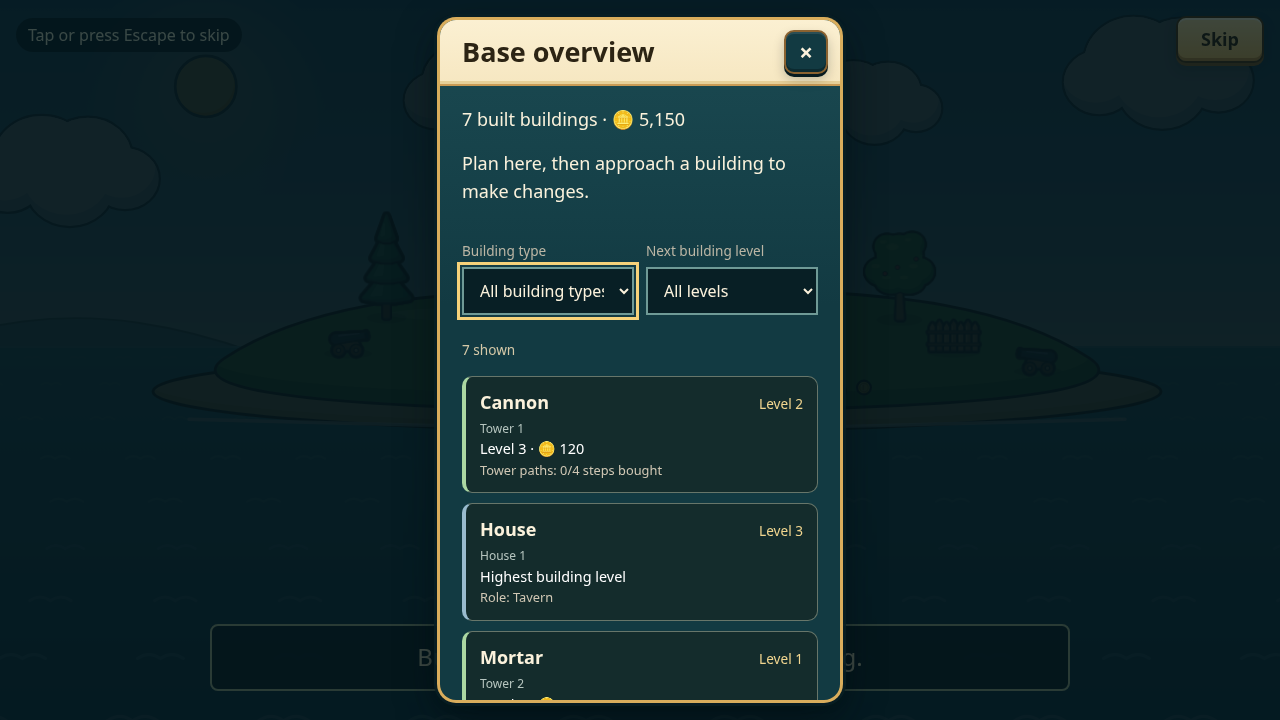
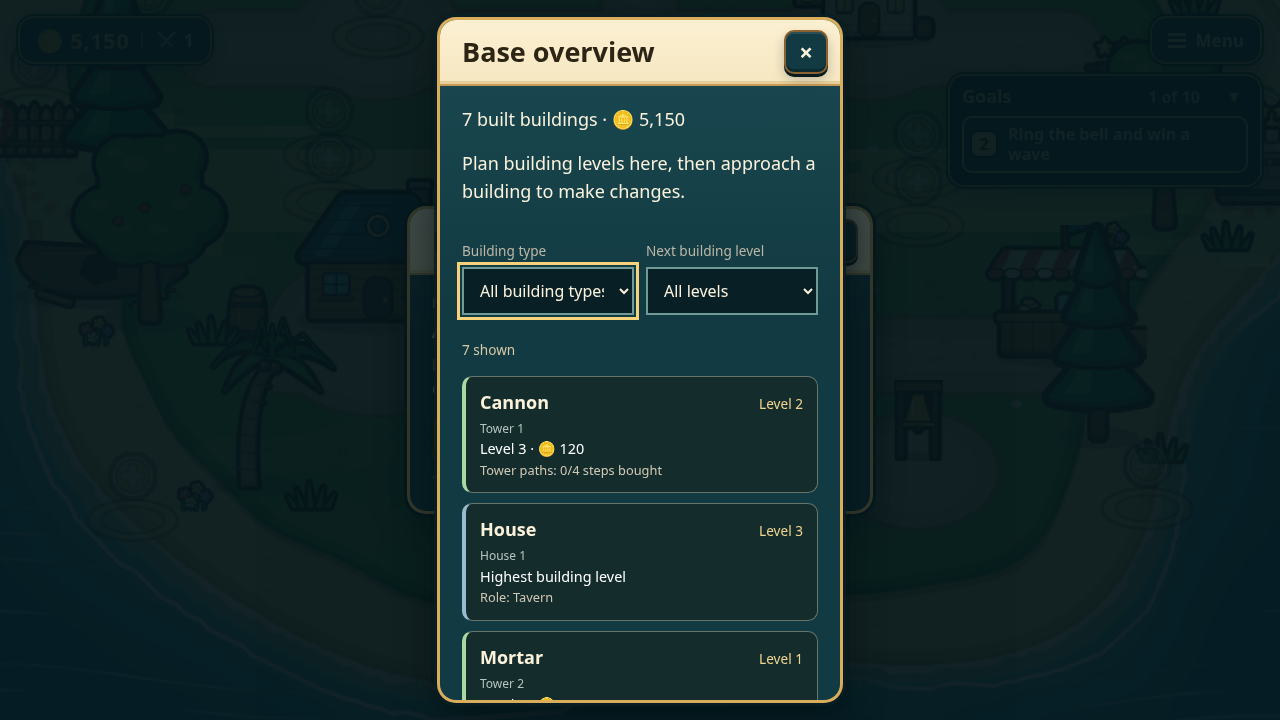
test: finish base overview visual and data checks

diff --git a/frontend/tests/island/upgrade-overview.test.js b/frontend/tests/island/upgrade-overview.test.js
@@ -8,7 +8,8 @@ describe('base overview planning model', () => {
   it('includes offered extra spots exactly once and does not invent empty or unknown buildings', () => {
     const model = upgradeOverviewModel({island: island([
       building('cannon_8', 'mortar', 2), building('wall_2', 'wall'), building('cannon_8', 'mortar', 2),
-      {id: 'house_1', kind: 'house', built: false}, building('invalid', 'unknown'), building('wall_1', 'wall')])});
+      {id: 'house_1', kind: 'house', built: false}, {id: 'not-built', kind: 'wall', built: 'yes'},
+      building('invalid', 'unknown'), building('wall_1', 'wall')])});
     expect(model.rows.map(row => row.id)).toEqual(['cannon_8', 'wall_1', 'wall_2']);
     expect(model.lead).toBe('3 built buildings · 🪙 500');
     expect(overviewRows(model, 'wall').map(row => row.id)).toEqual(['wall_1', 'wall_2']);

diff --git a/frontend/src/island/upgrade-overview.js b/frontend/src/island/upgrade-overview.js
@@ -8,7 +8,7 @@ export function upgradeOverviewModel({island = null, battle = false, message = '
   const coins = Number.isSafeInteger(island?.coins) ? island.coins : null;
   const seen = new Set(), rows = [], campaign = campaignOf(island);
   for (const spot of island?.spots ?? []) {
-    if (!spot?.built || typeof spot.id !== 'string' || seen.has(spot.id) || !BUILDINGS[spot.kind]) continue;
+    if (spot?.built !== true || typeof spot.id !== 'string' || seen.has(spot.id) || !BUILDINGS[spot.kind]) continue;
     seen.add(spot.id);
     const card = buildCardModel({spotId: spot.id, kind: spot.kind, spot, coins,
       unlocks: readUnlocks(island), prices: island.prices, campaign, battle});

diff --git a/specs/COC-31-base-overview.md b/specs/COC-31-base-overview.md
@@ -42,11 +42,11 @@ Focused command from `frontend/`:
 npm test -- --maxWorkers=1 tests/island/upgrade-overview.test.js tests/island/upgrade-overview-dom.test.js tests/island/card-model.test.js tests/island/tower-tree.test.js
 ```
 
-Initial focused result: **4 passed files; 40 passed tests**, 6.43 seconds. After the building-level wording refinement, the non-browser model/card/tree run passed **3 files; 38 tests**, 1.39 seconds. A final DOM/capture rerun is coordinated with the parent agent's exclusive browser slot. Model cases cover extra plots, duplicate IDs, unbuilt/unknown entries, server prices, exact affordability boundary, unknown coins, wave locks, top levels, roles/paths and source immutability. Real Chromium DOM cases use the actual menu provider, confirm zero POST writes during overview use, retain filters/focus across accepted updates and wave state, and check 375-pixel overflow plus an empty filter result.
+Final focused result: **4 passed files; 40 passed tests**, 3.64 seconds. Model cases cover extra plots, duplicate IDs, unbuilt/unknown entries, server prices, exact affordability boundary, unknown coins, wave locks, top levels, roles/paths and source immutability. Real Chromium DOM cases use the actual menu provider, confirm zero POST writes during overview use, retain filters/focus across accepted updates and wave state, and check 375-pixel overflow plus an empty filter result.
 
 Text lint: **4322 candidate strings in 472 source files; 0 errors, 8 report-only findings**. The four added ordinary words (`approach`, `base`, `filters`, `plan`) were manually checked for spelling. Existing report-only findings are unrelated.
 
-`node scripts/capture-base-overview.js ../docs/evidence/COC-31-base-overview` captures the real integrated game with local fake island data. The old single-building detail card is the before comparison; the new read-only aggregate is the after comparison. Seven buildings at the same fixture state are used at 1280 × 720 and 375 × 812. Preliminary captures exist, but show an unrelated arrival-cutscene backdrop. The stricter clean-capture assertion exposed that condition; the returning-player fixture now seeds the existing arrival-seen key, and its final rerun is pending. See the [evidence report](../docs/evidence/COC-31-base-overview/README.md).
+`node scripts/capture-base-overview.js ../docs/evidence/COC-31-base-overview` captures the real integrated game with local fake island data. The old single-building detail card is the before comparison; the new read-only aggregate is the after comparison. Seven buildings at the same fixture state are used at 1280 × 720 and 375 × 812. Final result: **4 screenshots passed; overview rows: 7; browser errors: 0; horizontal overflow: 0**. The returning-player fixture sets the existing arrival-seen key, and asserts there is no open arrival cutscene before capturing. The earlier cutscene-backdrop assertion failure was fixed in the fixture; it was not removed. See the [evidence report](../docs/evidence/COC-31-base-overview/README.md).
 
 Full frontend suite, production build/budget and broad accessibility/demo journeys are coordinated by the parent integration agent and are not claimed here. Live authentication, a production database, Safari and physical phones were not checked. The fake transport proves the component workflow and absence of overview writes, not production service availability.
 

diff --git a/docs/evidence/COC-31-base-overview/README.md b/docs/evidence/COC-31-base-overview/README.md
@@ -1,6 +1,6 @@
-# COC-31 preliminary visual evidence
+# COC-31 visual evidence
 
-These are real Chromium screenshots of the integrated game using its local fake island transport. They are not generated concepts and do not show production data. The before comparison is the unchanged single-building detail card; the after comparison is the new overview at the same prepared island state. **The first captures still have an unrelated arrival-cutscene backdrop. Clean regeneration is pending the coordinated browser slot; these images are preliminary, not final visual acceptance.**
+These are real Chromium screenshots of the integrated game using its local fake island transport. They are not generated concepts and do not show production data. The before comparison is the unchanged single-building detail card; the after comparison is the new overview at the same prepared island state. Both final viewports were inspected visually.
 
 | Viewport | Before | After |
 |---|---|---|
@@ -13,7 +13,7 @@ Reproduce from `frontend/`:
 node scripts/capture-base-overview.js ../docs/evidence/COC-31-base-overview
 ```
 
-The capture uses real game/card rendering, existing fake build/upgrade commands, the existing arrival-seen key for a returning-player fixture, normal Skip controls for optional queued narration, and the new public overview opener used by its menu entry. It asserts no open arrival cutscene, seven rendered building rows, no horizontal document overflow and zero page exceptions. The [report.json](report.json) currently records the first, less strict run; it does not prove that the added clean-backdrop assertion passed.
+The capture uses real game/card rendering, existing fake build/upgrade commands, the existing arrival-seen key for a returning-player fixture, normal Skip controls for optional queued narration, and the new public overview opener used by its menu entry. It asserts no open arrival cutscene, seven rendered building rows, no horizontal document overflow and zero page exceptions. The final [report.json](report.json) and command result record **4 screenshots passed; overview rows: 7; browser errors: 0; horizontal overflow: 0**. An earlier attempt exposed the unwanted intro backdrop and failed the stricter assertion; the fixture was corrected without removing that assertion.
 
 The overview is scrollable when seven rows cannot fit on a phone. The screenshot is the first visible part of that scrollable card. Tests separately verify both filters, no-match feedback, focus retention, zero overview POST writes and accepted data refreshes.
 

diff --git a/docs/FINAL-ROADMAP.md b/docs/FINAL-ROADMAP.md
@@ -148,4 +148,4 @@ Planning handover (14 Nov): roadmap/task expansion drafted by Ianno Hollensteine
 - [x] **B3 current-v3 feedback pass:** implemented by Johannes in drafts [#31](https://github.com/Nilsnova/The-Great-Plot-Twist/pull/31) and [#32](https://github.com/Nilsnova/The-Great-Plot-Twist/pull/32). [Audit, screenshots and limits](B3-FEEDBACK-AUDIT.md). This scoped pass does not claim the historical mystery/email workflows or live provider/multiplayer proof. Human review remains.
 
 
-COC-31 / Johannes: a first read-only base overview slice is implemented on `feat/coc-31-base-overview` for [issue #172](https://github.com/Nilsnova/The-Great-Plot-Twist/issues/172). [Scope and limits](../specs/COC-31-base-overview.md); [screenshots](evidence/COC-31-base-overview/README.md). The broad task stays open: village-mode selection handoff, author explain-back and human review remain.
+COC-31 / Johannes: a first read-only base overview slice is implemented in [draft PR #196](https://github.com/Nilsnova/The-Great-Plot-Twist/pull/196) on `feat/coc-31-base-overview` for [issue #172](https://github.com/Nilsnova/The-Great-Plot-Twist/issues/172). [Scope and limits](../specs/COC-31-base-overview.md); [screenshots](evidence/COC-31-base-overview/README.md). The broad task stays open: village-mode selection handoff, author explain-back and human review remain.

diff --git a/docs/OPEN-TODOS.md b/docs/OPEN-TODOS.md
@@ -232,4 +232,4 @@ T55–T60 remain reserved and dependency-blocked pending explicit T54 technical-
 
 ## COC-31 — base overview first slice (17 Nov, Johannes)
 
-[Issue #172](https://github.com/Nilsnova/The-Great-Plot-Twist/issues/172), branch `feat/coc-31-base-overview`: read-only built-building overview with existing prices/locks and local filters. [Scope/evidence](../specs/COC-31-base-overview.md). No purchase endpoint or remote building selection; the larger COC-31 task is not done. Draft PR, explain-back and independent review remain.
+[Issue #172](https://github.com/Nilsnova/The-Great-Plot-Twist/issues/172), [draft PR #196](https://github.com/Nilsnova/The-Great-Plot-Twist/pull/196), branch `feat/coc-31-base-overview`: read-only built-building overview with existing prices/locks and local filters. [Scope/evidence](../specs/COC-31-base-overview.md). No purchase endpoint or remote building selection; the larger COC-31 task is not done. Draft PR, explain-back and independent review remain.
